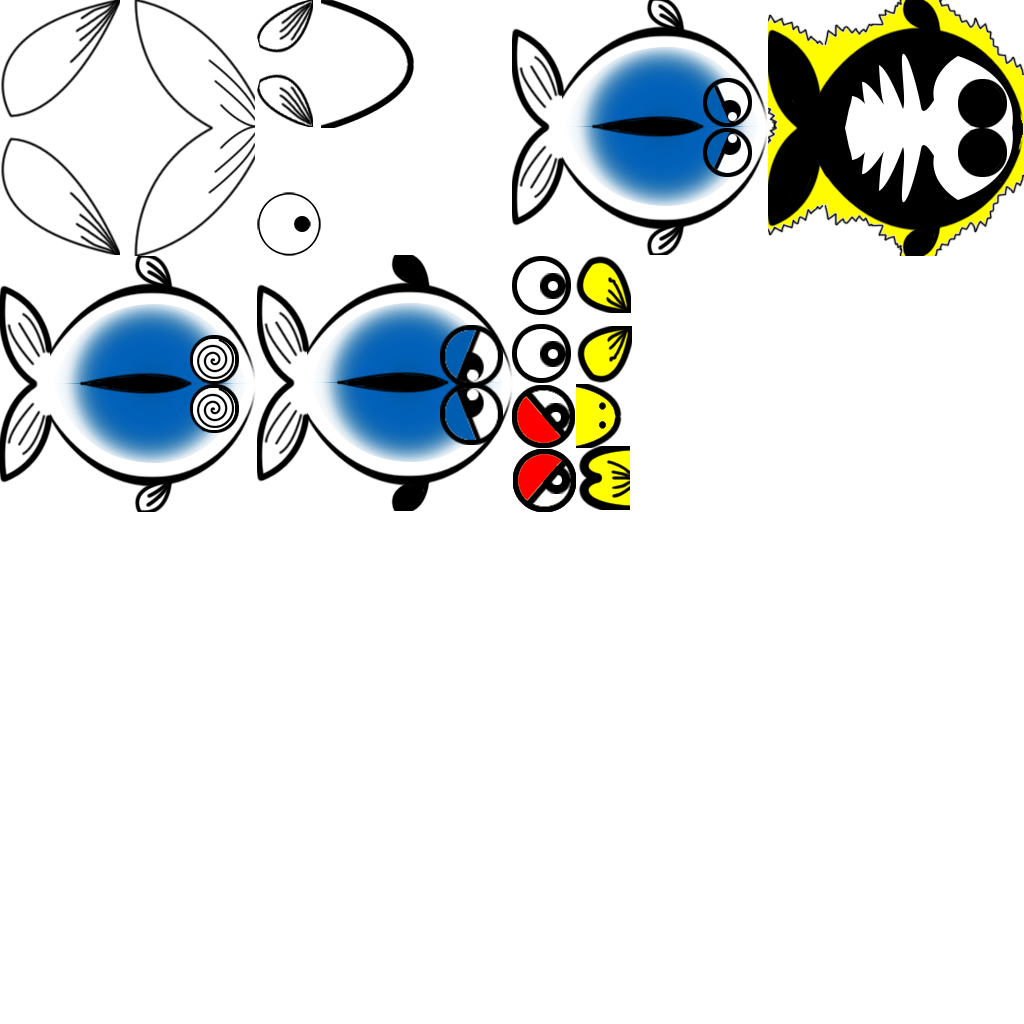
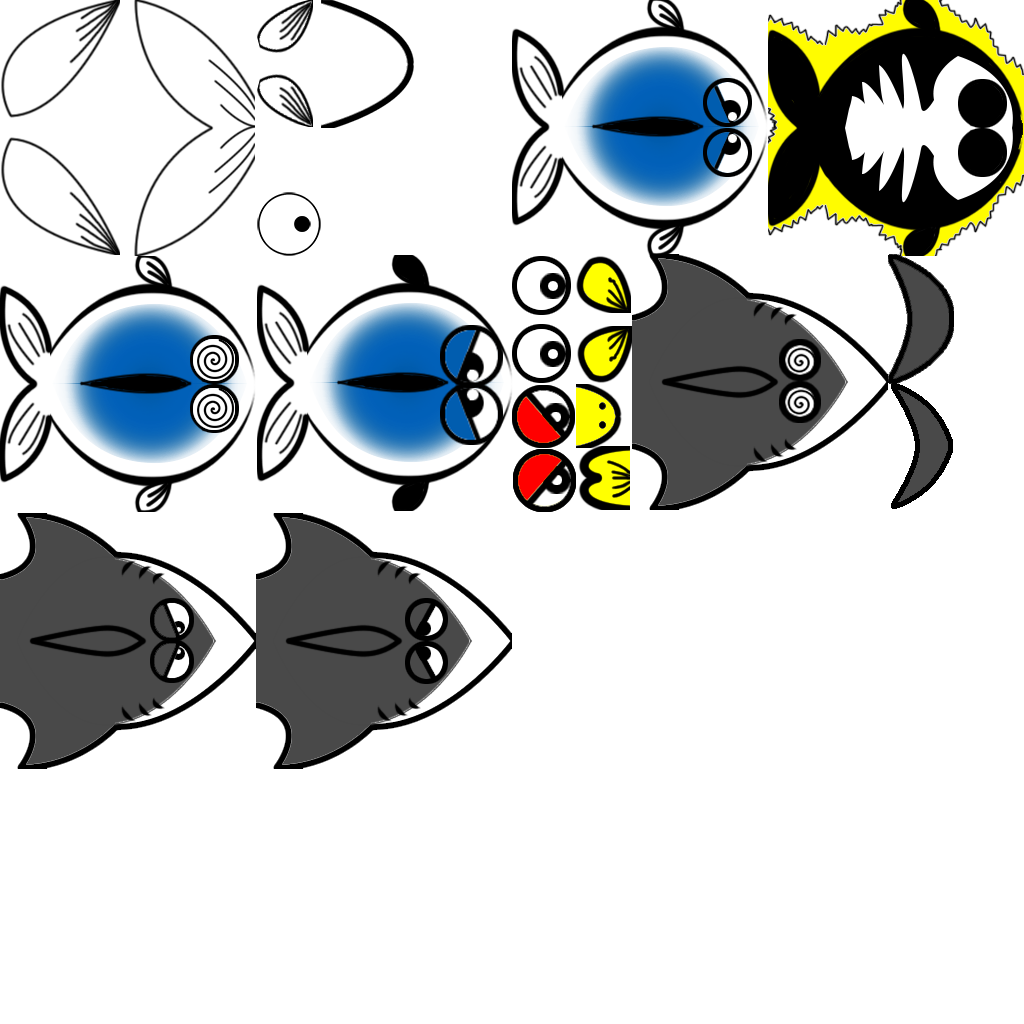
add Shark

Changed region(s): [[0.0, 0.5, 0.5, 0.75], [0.5938, 0.25, 0.9375, 0.5]]

diff --git a/src/Shark.cpp b/src/Shark.cpp
@@ -1,0 +1,220 @@
+#include "Shark.h"
+#include "util.h"
+#include <cassert>
+
+const float Shark::HEAD_SIZE=150.0f;
+const float Shark::TAIL_SIZE=75.0f;
+const float Shark::KNOT_DIST=30.0f;
+const float Shark::NORMAL_SPEED=0.01f;
+const float Shark::CRAZY_SPEED=0.5f;
+const float Shark::ESCAPE_SPEED=0.8f;
+const float Shark::NORMAL_SIZE=1.0f;
+const float Shark::CRAZY_SIZE=0.6f;
+const float Shark::WEAKEN_SIZE=0.5f;
+const float Shark::HP=100;
+
+Shark::Shark()
+{
+    addKnot(Knot(KNOT_DIST,TAIL_SIZE));
+    addKnot(Knot(KNOT_DIST,TAIL_SIZE*4.0f/5.0f));
+    addKnot(Knot(KNOT_DIST,TAIL_SIZE*3.0f/5.0f));
+    addKnot(Knot(KNOT_DIST,TAIL_SIZE/2.0f));
+    addKnot(Knot(KNOT_DIST,TAIL_SIZE/5.0f));
+    _head=sf::RectangleShape(sf::Vector2f(HEAD_SIZE,HEAD_SIZE));
+    _head.setOrigin(sf::Vector2f(0.0f,HEAD_SIZE/2.0f));
+    _fins=sf::RectangleShape(sf::Vector2f(TAIL_SIZE/2.0f,TAIL_SIZE));
+    _fins.setOrigin(sf::Vector2f(TAIL_SIZE/2.0f,TAIL_SIZE/2.0F));
+    _tail=sf::RectangleShape(sf::Vector2f(TAIL_SIZE,TAIL_SIZE*2.0f));
+    _tail.setOrigin(sf::Vector2f(TAIL_SIZE,TAIL_SIZE));
+    _numPartition=10;
+    _body=sf::VertexArray(sf::Quads,4*(_numPartition-1));
+    _bodyShadow=sf::VertexArray(sf::Quads,4*(_numPartition-1));
+    _speed=NORMAL_SPEED;
+    _state=NORMAL;
+    _size=1.0f;
+    _current_HP=HP;
+    setHeadDistance(HEAD_SIZE);
+}
+
+void Shark::init()
+{
+    assert(_texture!=nullptr);
+    assert(_textureAreas!=nullptr);
+    _head.setTexture(_texture.get());
+    _head.setTextureRect((*_textureAreas)["Shark_normal_head"]);
+    _fins.setTexture(_texture.get());
+    _fins.setTextureRect((*_textureAreas)["Shark_fins"]);
+    _tail.setTexture(_texture.get());
+    _tail.setTextureRect((*_textureAreas)["Shark_tail"]);
+}
+
+void Shark::setSize(float size)
+{
+    _head.setScale(sf::Vector2f(size,size));
+    setHeadDistance(HEAD_SIZE*size);
+    _tail.setScale(sf::Vector2f(size,size));
+    _fins.setScale(sf::Vector2f(size,size));
+    for(size_t i=0;i<_knots.size();i++)
+    {
+        _knots[i].setWidth(_knots[i].getWidth()*size);
+        _knots[i].setHeight(_knots[i].getHeight()*size);
+    }
+}
+
+void Shark::shocked()
+{
+    _current_HP-=10;
+    if(_current_HP<=HP/2)
+    {
+        _state=CRAZY;
+        setSize(CRAZY_SIZE);
+        _size=CRAZY_SIZE;
+        _speed=CRAZY_SPEED;
+        _head.setTextureRect((*_textureAreas)["Shark_crazy_head"]);
+    }
+    if(_current_HP<=HP/10)
+    {
+        _state=WEAKEN;
+        _speed=ESCAPE_SPEED;
+        setSize(WEAKEN_SIZE);
+        _size=WEAKEN_SIZE;
+        _head.setTextureRect((*_textureAreas)["Shark_weak_head"]);
+    }
+    if(_current_HP<=0)
+    {
+        _current_HP=0;
+        _state=DIE;
+    }
+}
+
+void Shark::shot()
+{
+    _current_HP-=10;
+    if(_current_HP<=HP/2)
+    {
+        _state=CRAZY;
+        setSize(CRAZY_SIZE);
+        _size=CRAZY_SIZE;
+        _speed=CRAZY_SPEED;
+        _head.setTextureRect((*_textureAreas)["Shark_crazy_head"]);
+    }
+    if(_current_HP<=HP/10)
+    {
+        _state=WEAKEN;
+        _speed=ESCAPE_SPEED;
+        setSize(WEAKEN_SIZE);
+        _size=WEAKEN_SIZE;
+        _head.setTextureRect((*_textureAreas)["Shark_weak_head"]);
+    }
+    if(_current_HP<=0)
+    {
+        _current_HP=0;
+        _state=DIE;
+    }
+}
+
+void Shark::setNumPartition(int numPartition)
+{
+    _numPartition=numPartition;
+    _body=sf::VertexArray(sf::Quads,4*(_numPartition-1));
+}
+
+int Shark::getNumPartition() const
+{
+    return _numPartition;
+}
+
+Shark::State Shark::getState()const
+{
+    return _state;
+}
+
+void Shark::setTarget(std::shared_ptr<Fish> target)
+{
+    _target=target;
+}
+
+std::shared_ptr<Fish> Shark::getTarget() const
+{
+    return _target;
+}
+
+float Shark::getSpeed() const
+{
+    return _speed;
+}
+
+void Shark::update(float deltaTime)
+{
+    switch(_state)
+    {
+        case NORMAL:
+            break;
+        case CRAZY:
+            break;
+        case WEAKEN:
+            break;
+        case DIE:
+            break;
+        default:
+            break;
+    }
+
+    updateShape();
+}
+
+void Shark::updateShape()
+{
+    assert(_knots.size()>=5);
+    _head.setPosition(_knots[0].getPosition());
+    _head.setRotation(_knots[0].getRotation());
+    if((_numPartition-1)*4!=_body.getVertexCount())
+    {
+        _body.clear();
+        _body.resize((_numPartition-1)*4);
+    }
+
+    std::vector<sf::Vector2f> vertices(_numPartition*2);
+    Bezier(_knots,vertices);
+
+    for(size_t i=0;i<_numPartition-1;i++)
+    {
+
+        sf::Vector2f dir=normalize(vertices[2*i+1]-vertices[2*i]);
+        _body[4*i].position=vertices[2*i]+dir*2.5f*_size;
+        _body[4*i+1].position=vertices[2*i+1]-dir*2.5f*_size;
+        _bodyShadow[4*i].position=vertices[2*i]-dir*2.5f*_size;
+        _bodyShadow[4*i+1].position=vertices[2*i+1]+dir*2.5f*_size;
+        
+        dir=normalize(vertices[2*(i+1)+1]-vertices[2*(i+1)]);
+        _body[4*i+2].position=vertices[2*(i+1)+1]-dir*2.5f*_size;
+        _body[4*i+3].position=vertices[2*(i+1)]+dir*2.5f*_size;
+        _bodyShadow[4*i+2].position=vertices[2*(i+1)+1]+dir*2.5f*_size;
+        _bodyShadow[4*i+3].position=vertices[2*(i+1)]-dir*2.5f*_size;
+        _body[4*i].color=sf::Color(72,72,72);
+        _body[4*i+1].color=sf::Color(72,72,72);
+        _body[4*i+2].color=sf::Color(72,72,72);
+        _body[4*i+3].color=sf::Color(72,72,72);
+        _bodyShadow[4*i].color=sf::Color::Black;
+        _bodyShadow[4*i+1].color=sf::Color::Black;
+        _bodyShadow[4*i+2].color=sf::Color::Black;
+        _bodyShadow[4*i+3].color=sf::Color::Black;
+
+    }
+    _head.setPosition(_knots[0].getPosition());
+    _head.setRotation(_knots[0].getRotation());
+    _fins.setPosition(_knots[2].getPosition());
+    _fins.setRotation(_knots[2].getRotation());
+    _tail.setPosition(_knots[4].getPosition());
+    _tail.setRotation(_knots[4].getRotation());
+}
+
+void Shark::draw(sf::RenderTarget& target,sf::RenderStates states) const
+{
+    states.transform*=getTransform();
+    target.draw(_head,states);
+    target.draw(_fins,states);
+    target.draw(_bodyShadow,states);
+    target.draw(_body,states);
+    target.draw(_tail,states);
+}

diff --git a/bin/TestShark.cpp b/bin/TestShark.cpp
@@ -1,0 +1,58 @@
+#include <SFML/Graphics.hpp>
+#include <SFML/Audio.hpp>
+#include "Shark.h"
+#include "TextureManager.h"
+#include <iostream>
+
+int main(int argc, char** argv)
+{
+
+  // Resource Managers
+  TextureManager textures;
+
+  // create main window
+  sf::RenderWindow App(sf::VideoMode(1000,800,32), "Hello World - SFML",sf::Style::Titlebar|sf::Style::Close);
+  Shark fish;
+
+    /*Note: to save the memory fot passing texture and texture location, I used shared pointer. However, shared pointer can only be created dynamically, so you need to use make_shared<T>, or you will have segementation fault*/
+  textures.addTexture("../data/fish.png"); 
+  textures.addArea("Shark_normal_head",sf::IntRect(0,512,256,256));
+  textures.addArea("Shark_weak_head",sf::IntRect(256,512,256,256));
+  textures.addArea("Shark_crazy_head",sf::IntRect(630,256,512,512));
+  textures.addArea("Shark_fins",sf::IntRect(886,256,64,128));
+  textures.addArea("Shark_tail",sf::IntRect(886,384,64,128));
+
+
+  fish.setTexture(textures.get().texture);
+  fish.setTextureAreas(textures.get().areas);
+
+  fish.init();
+    // start main loop
+  while(App.isOpen())
+  {
+    // process events
+    sf::Event event;
+     while (App.pollEvent(event)) {
+        switch (event.type) {
+            case sf::Event::Closed:
+                App.close();
+                break;
+            default:
+                break;
+        }
+       
+    }
+
+    // clear screen and fill with blue
+    App.clear(sf::Color::Blue);
+
+    sf::Vector2i mousePos=sf::Mouse::getPosition(App);
+    fish.swimTo(sf::Vector2f(mousePos.x,mousePos.y));
+    fish.update(0);
+    App.draw(fish);
+    App.display();
+  }
+
+  // Done.
+  return 0;
+}

diff --git a/include/Shark.h b/include/Shark.h
@@ -1,0 +1,43 @@
+#ifndef SHARK_H
+#define SHARK_H
+
+#include "Fish.h"
+
+class Shark:public Fish
+{
+    public:
+        enum State {NORMAL,CRAZY,WEAKEN,DIE}; 
+        Shark();
+        Shark(const Shark&)=delete;
+
+        Shark& operator=(const Shark&)=delete;
+
+        void init();
+
+        void setNumPartition(int numPartition);
+        int getNumPartition() const;
+        State getState() const;
+        void setTarget(std::shared_ptr<Fish> target);
+        std::shared_ptr<Fish> getTarget() const;
+        float getSpeed() const;
+        void setSize(float size);
+
+        void shocked();
+        void shot();
+
+        virtual void update(float deltaTime) override;
+    private:
+        virtual void updateShape() override;
+        virtual void draw(sf::RenderTarget& target,sf::RenderStates states) const override;
+        static const float HEAD_SIZE,TAIL_SIZE,KNOT_DIST,NORMAL_SPEED,CRAZY_SPEED,ESCAPE_SPEED,NORMAL_SIZE,CRAZY_SIZE,ESCAPE_SIZE,WEAKEN_SIZE,HP;
+        int _numPartition;
+        sf::VertexArray _body;
+        sf::VertexArray _bodyShadow;
+        sf::RectangleShape _head,_fins,_tail;
+        State _state;
+        float _size;
+        float _speed;
+        float _current_HP;
+        std::shared_ptr<Fish> _target;
+};
+#endif

diff --git a/src/Fish.cpp b/src/Fish.cpp
@@ -68,7 +68,7 @@ void Fish::swimTo(const sf::Vector2f& dest)
         for(size_t i=1;i<_knots.size();i++)
         {
             sf::Vector2f diff=_knots[i-1].getPosition()-_knots[i].getPosition();
-            sf::Vector2f nextPos=_knots[i].getPosition()+(mag(diff)-_knots[i].getWidth())*normalize(diff);
+            sf::Vector2f nextPos=_knots[i].getPosition()+(mag(diff)-_knots[i-1].getWidth())*normalize(diff);
             _knots[i].setRotation(angle(diff));
             _knots[i].setPosition(nextPos);
         }

diff --git a/src/Larry.cpp b/src/Larry.cpp
@@ -166,6 +166,8 @@ void Larry::draw(sf::RenderTarget& target,sf::RenderStates states) const
     target.draw(_back_fin,states);
     target.draw(_tail,states);
 
+<<<<<<< HEAD
+=======
     /*for(int i=0;i<_knots.size();i++)
     {
         sf::CircleShape circle(5.0f);
@@ -173,4 +175,5 @@ void Larry::draw(sf::RenderTarget& target,sf::RenderStates states) const
         circle.setPosition(_knots[i].getPosition());
         target.draw(circle,states);
     }*/
+>>>>>>> 3ea49e2204eb6296fc6201020218d412dd3a2b48
 }
